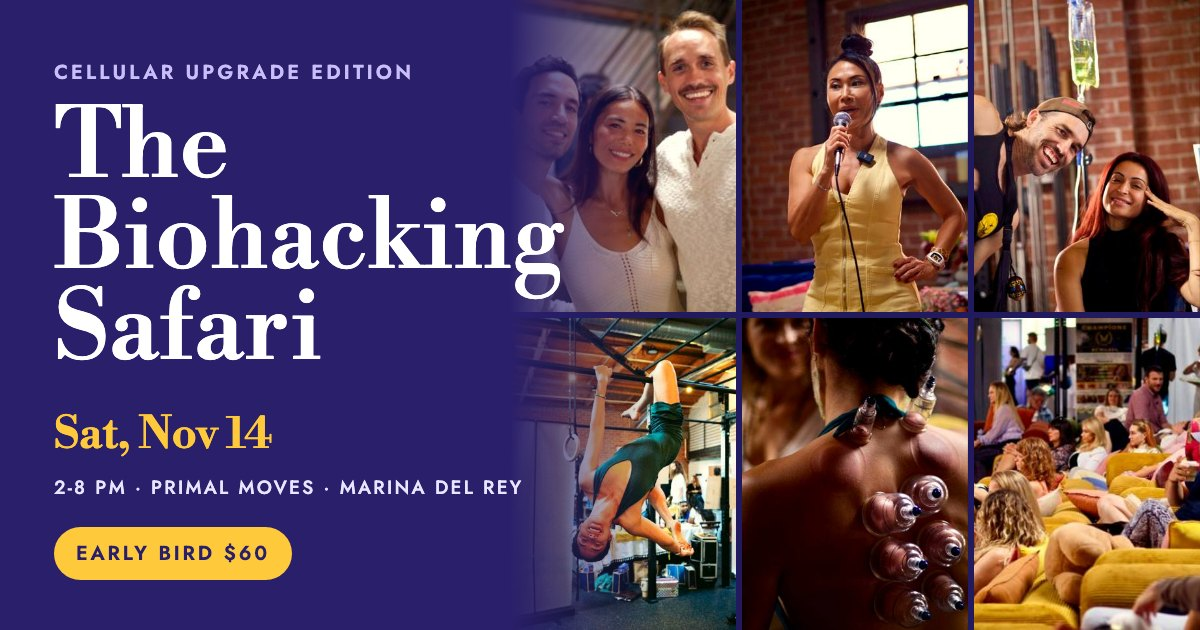
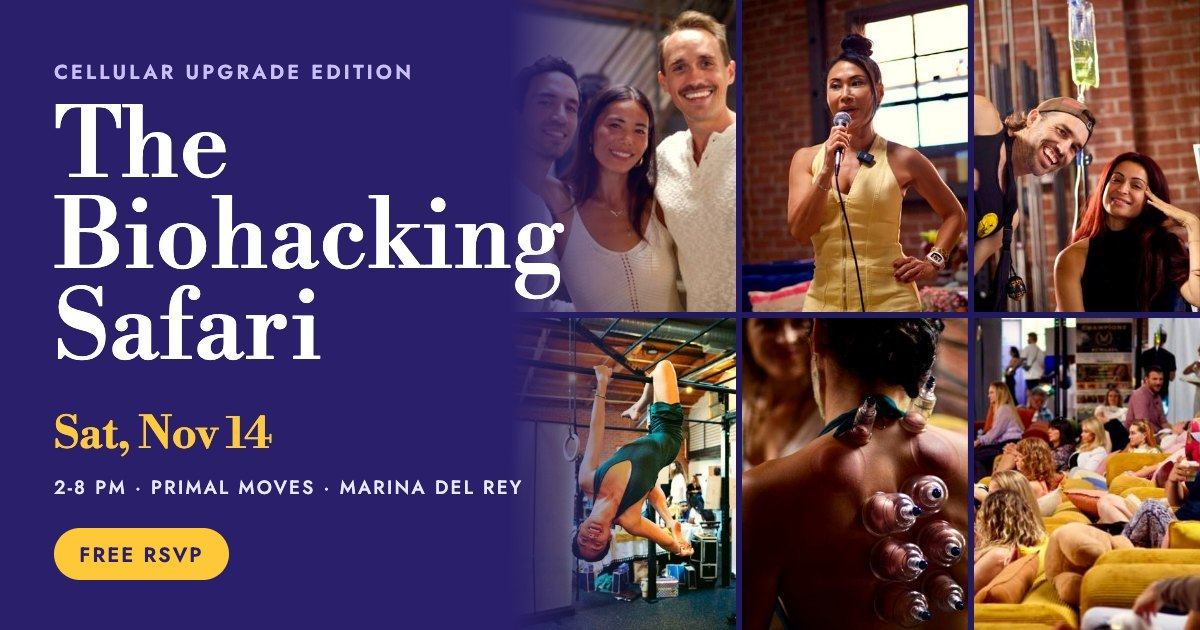
biosafari-nov-14: Free RSVP card and copy, Early Bird retired

Changed region(s): [[0.0617, 0.8143, 0.2467, 0.9349], [0.0925, 0.6937, 0.1233, 0.7238]]

diff --git a/biosafari-nov-14/index.html b/biosafari-nov-14/index.html
@@ -8,7 +8,7 @@
 <meta property="og:type" content="website">
 <meta property="og:site_name" content="The Oasis">
 <meta property="og:title" content="The Biohacking Safari · Cellular Upgrade Edition">
-<meta property="og:description" content="Saturday, November 14th, 2-8 PM at Primal Moves, Marina del Rey. The frontier of longevity: three keynotes, three panels and a day to upgrade your cells. Early Bird $60.">
+<meta property="og:description" content="Saturday, November 14th, 2-8 PM at Primal Moves, Marina del Rey. Keynotes and panels on the frontier of longevity, and a day to upgrade your cells. Free RSVP, wellness bundles from $99.">
 <meta property="og:url" content="https://grateful.gg/biosafari-nov-14/">
 <meta property="og:image" content="https://grateful.gg/biosafari-nov-14/cover.jpg">
 <meta property="og:image:secure_url" content="https://grateful.gg/biosafari-nov-14/cover.jpg">
@@ -18,7 +18,7 @@
 <meta property="og:image:alt" content="The Biohacking Safari · Cellular Upgrade Edition">
 <meta name="twitter:card" content="summary_large_image">
 <meta name="twitter:title" content="The Biohacking Safari · Cellular Upgrade Edition">
-<meta name="twitter:description" content="Saturday, November 14th, 2-8 PM at Primal Moves, Marina del Rey. The frontier of longevity: three keynotes, three panels and a day to upgrade your cells. Early Bird $60.">
+<meta name="twitter:description" content="Saturday, November 14th, 2-8 PM at Primal Moves, Marina del Rey. Keynotes and panels on the frontier of longevity, and a day to upgrade your cells. Free RSVP, wellness bundles from $99.">
 <meta name="twitter:image" content="https://grateful.gg/biosafari-nov-14/cover.jpg">
 
 <!-- Humans go to the real page; crawlers read the tags above first. The card
@@ -47,7 +47,7 @@
 <body>
   <main class="card">
     <img src="https://grateful.gg/biosafari-nov-14/cover.jpg" alt="The Biohacking Safari · Cellular Upgrade Edition" width="1200" height="630">
-    <div class="b"><h1>The Biohacking Safari · Cellular Upgrade Edition</h1><p>Saturday, November 14th, 2-8 PM at Primal Moves, Marina del Rey. The frontier of longevity: three keynotes, three panels and a day to upgrade your cells. Early Bird $60.</p>
+    <div class="b"><h1>The Biohacking Safari · Cellular Upgrade Edition</h1><p>Saturday, November 14th, 2-8 PM at Primal Moves, Marina del Rey. Keynotes and panels on the frontier of longevity, and a day to upgrade your cells. Free RSVP, wellness bundles from $99.</p>
     <a class="btn" href="https://app.grateful.gg/biosafari-nov-14">Open the event &rarr;</a></div>
   </main>
 </body>
